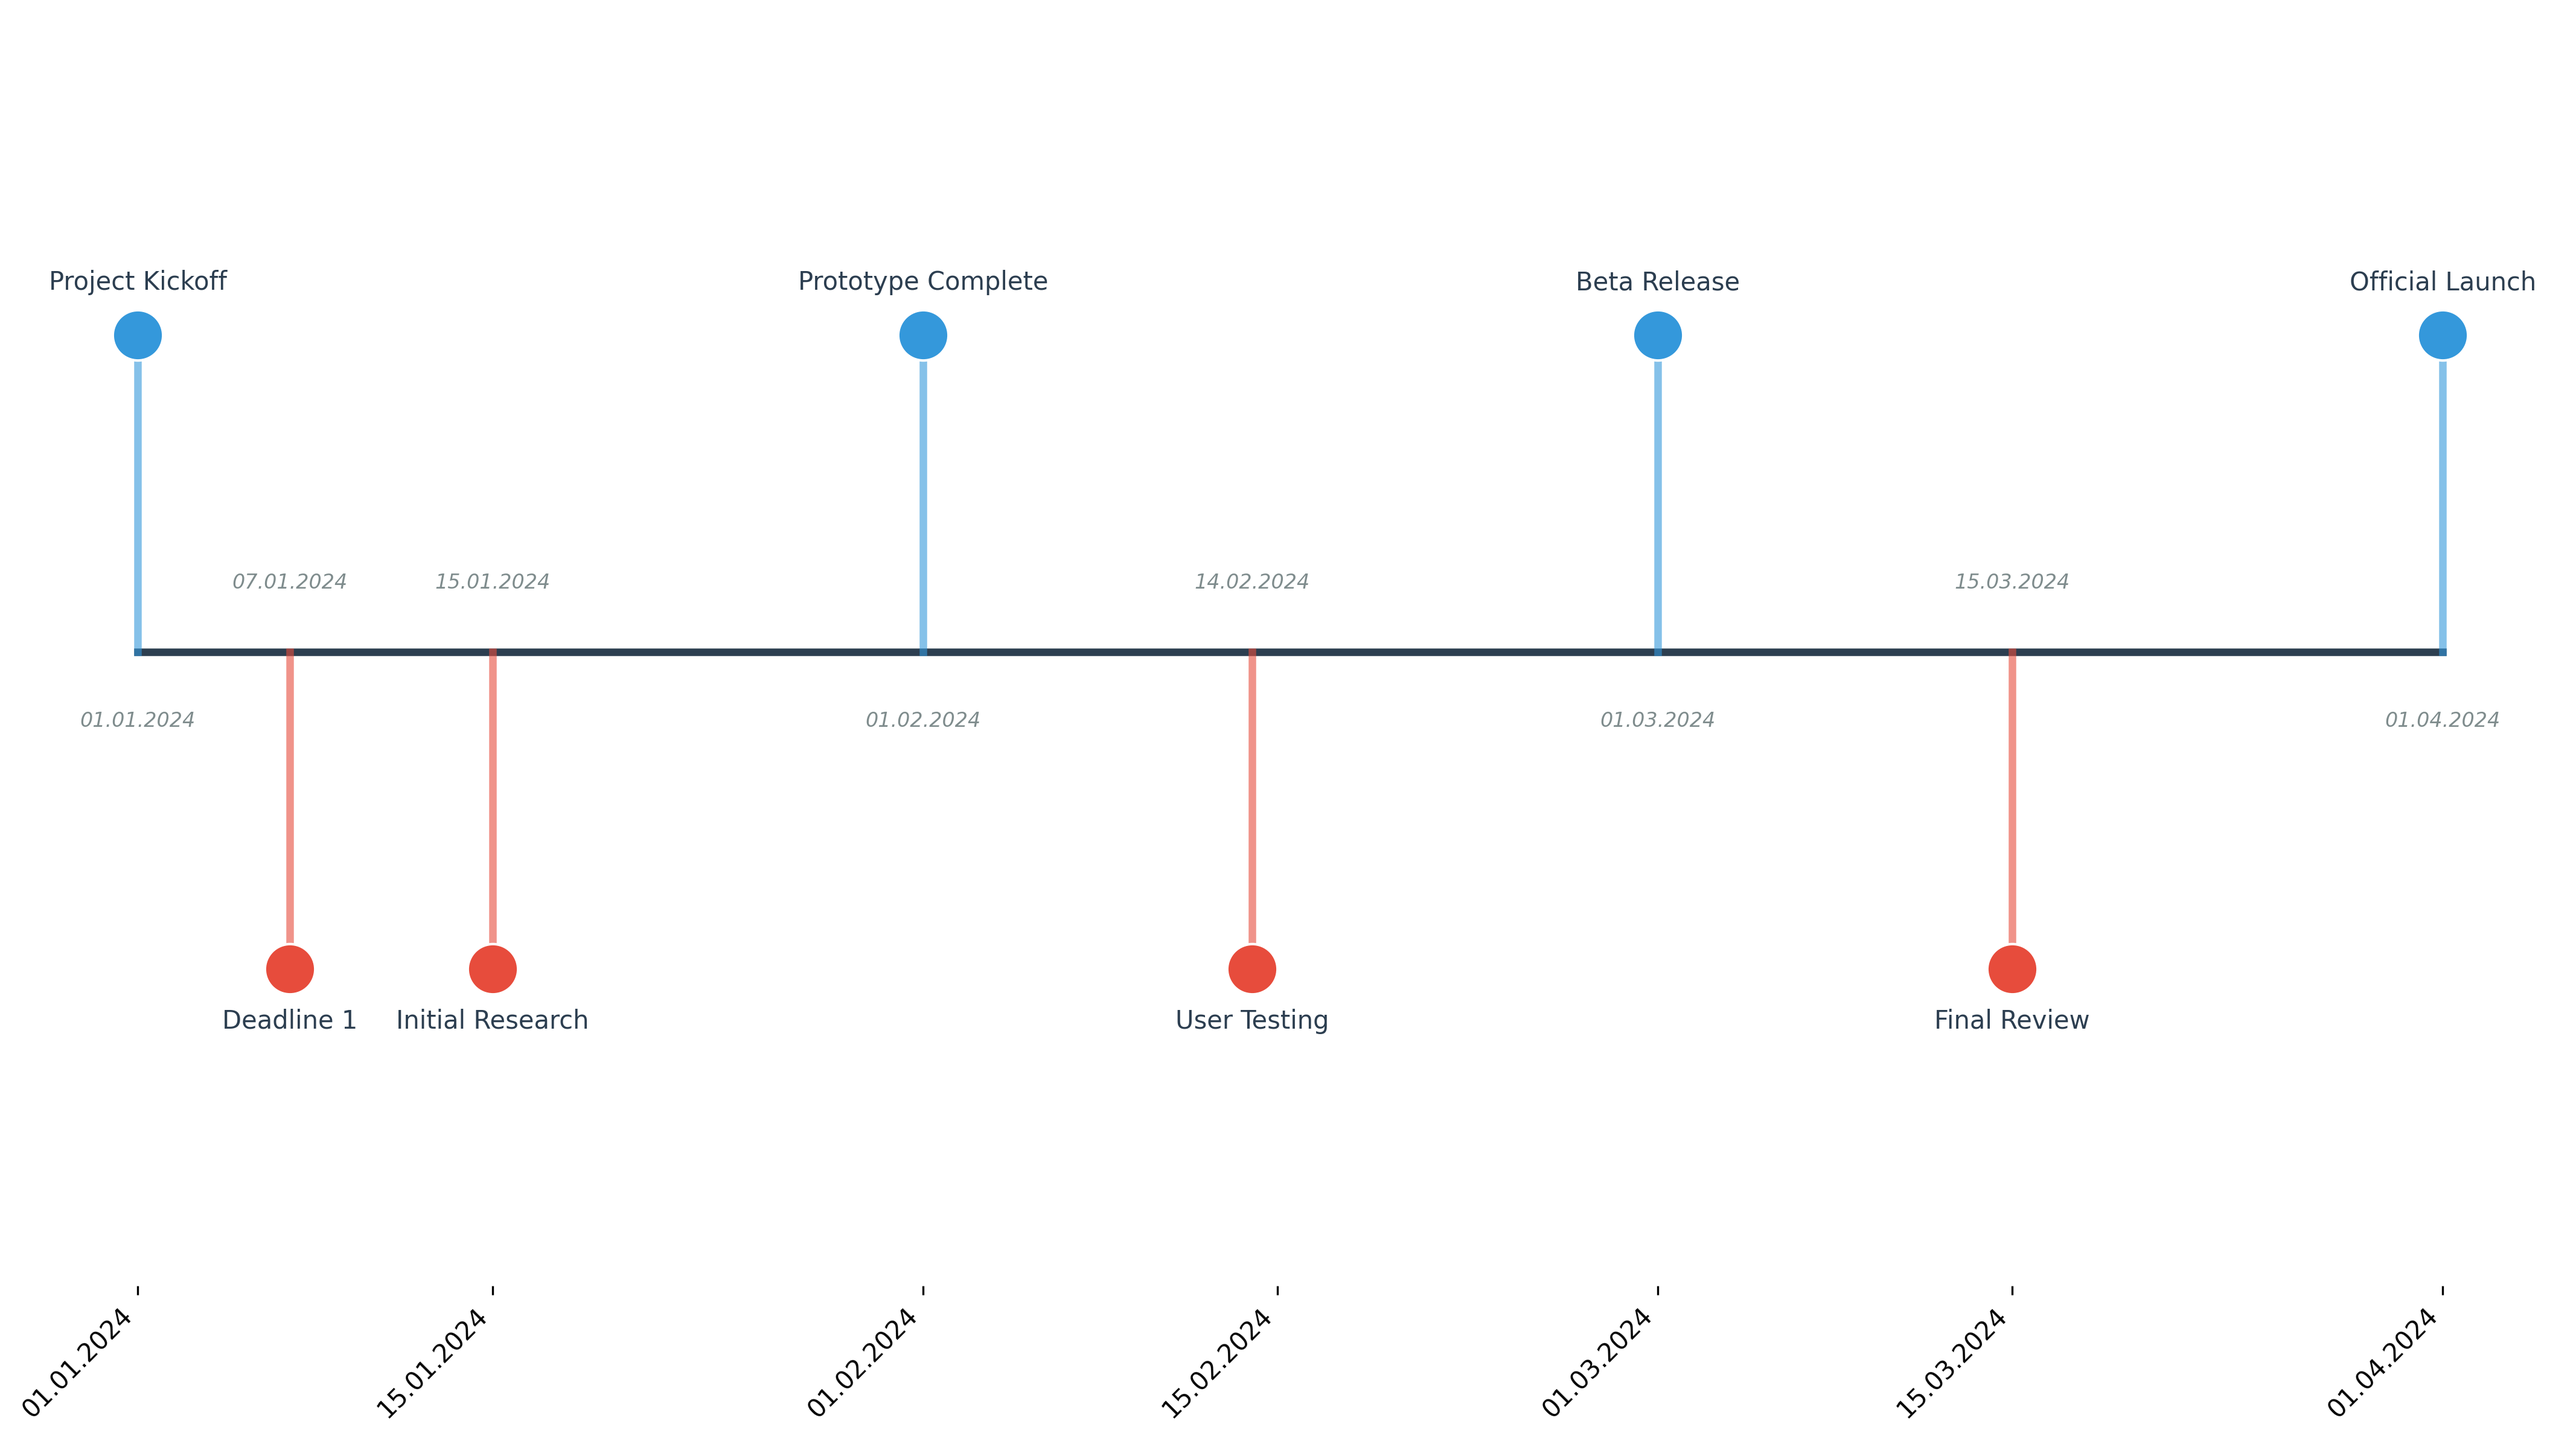
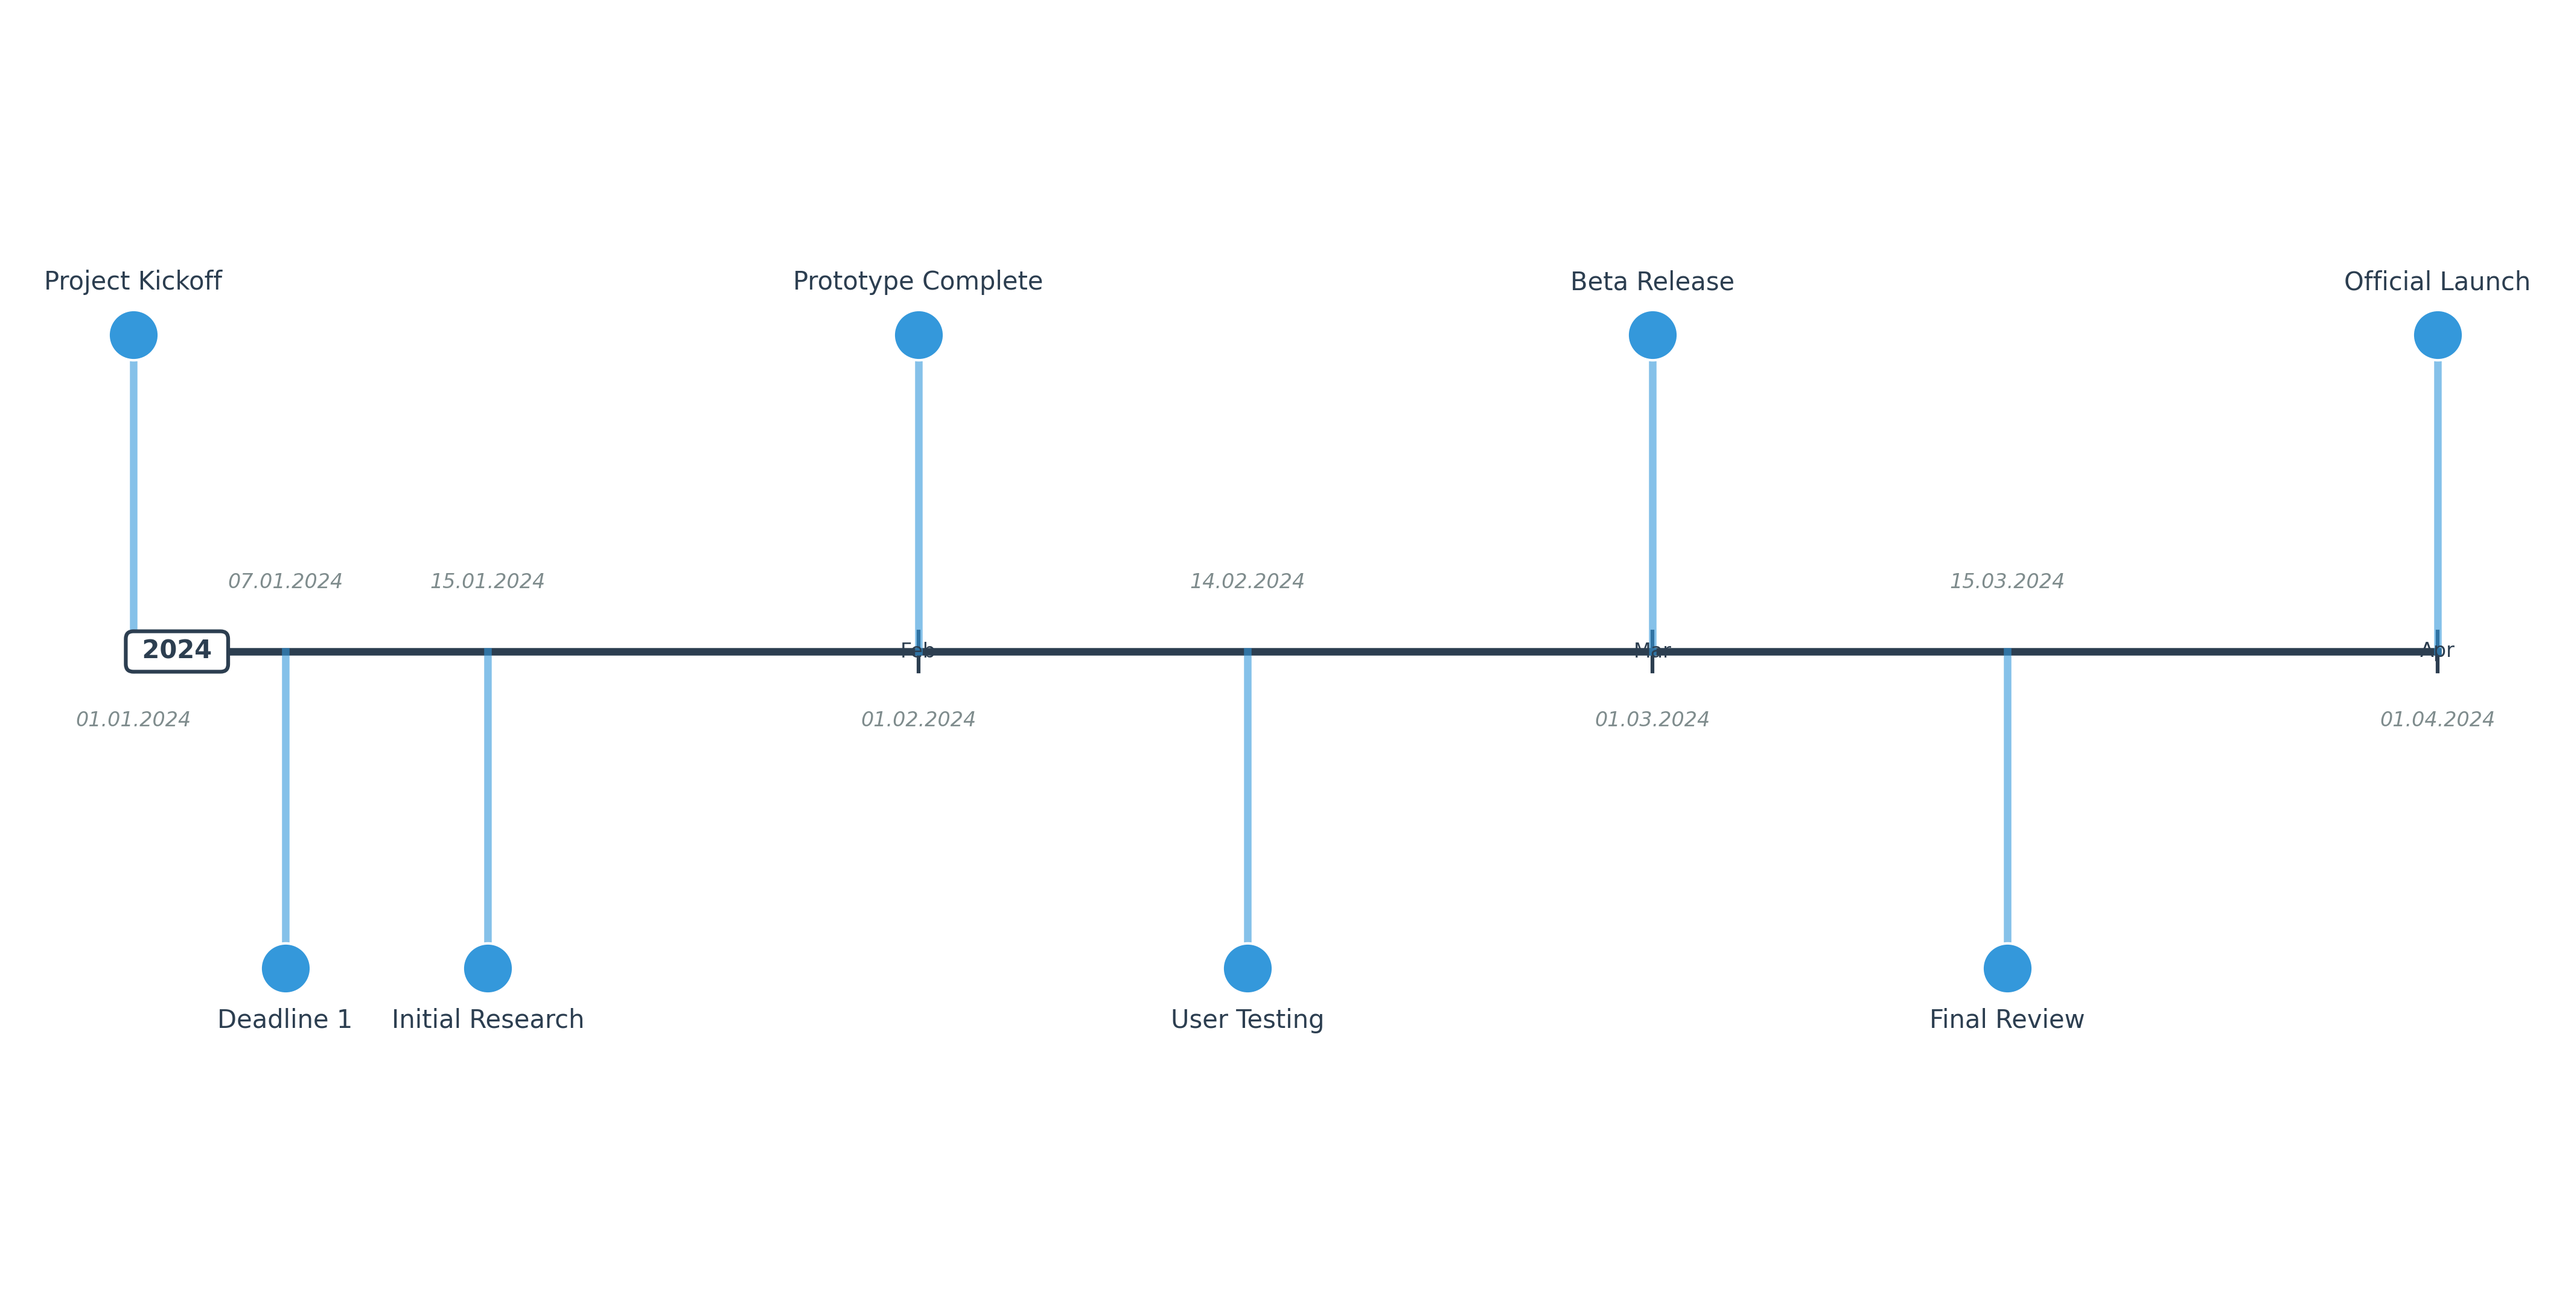
Almost working code

diff --git a/timeline_generator.py b/timeline_generator.py
@@ -7,6 +7,7 @@ Exports as PNG with customizable styling options
 import sys
 import json
 from datetime import datetime
+from dateutil.relativedelta import relativedelta
 from pathlib import Path
 
 import pandas as pd
@@ -116,6 +117,52 @@ def create_timeline(df, config, output_path):
             linewidth=visual['timeline_line_width'],
             zorder=1)
 
+    # Add month names and year labels on the timeline
+    # Generate month boundaries from min_date to max_date
+    current_date = datetime(min_date.year, min_date.month, 1)
+    last_year = None
+
+    while current_date <= max_date:
+        month_start_num = mdates.date2num(current_date)
+
+        # Check if we're within the visible range
+        if month_start_num >= min_date_num and month_start_num <= max_date_num:
+            # Add small tick mark on timeline
+            ax.plot([month_start_num, month_start_num], [-0.05, 0.05],
+                   color=colors['timeline_line'],
+                   linewidth=visual['timeline_line_width'] * 0.5,
+                   zorder=1)
+
+            # Check if this is a new year
+            if last_year is None or current_date.year != last_year:
+                # Add year label on the timeline
+                ax.text(month_start_num, 0, f' {current_date.year} ',
+                       ha='left',
+                       va='center',
+                       fontsize=fonts['label_size'],
+                       fontfamily=fonts['family'],
+                       color=colors['timeline_line'],
+                       fontweight='bold',
+                       bbox=dict(boxstyle='round,pad=0.3',
+                                facecolor=colors['background'],
+                                edgecolor=colors['timeline_line'],
+                                linewidth=1.5),
+                       zorder=5)
+                last_year = current_date.year
+            else:
+                # Add month name on the timeline
+                month_name = current_date.strftime('%b')  # Abbreviated month name
+                ax.text(month_start_num, 0, month_name,
+                       ha='center',
+                       va='center',
+                       fontsize=fonts['date_size'],
+                       fontfamily=fonts['family'],
+                       color=colors['timeline_line'],
+                       zorder=5)
+
+        # Move to next month
+        current_date = current_date + relativedelta(months=1)
+
     # Plot each event
     for idx, row in df.iterrows():
         date = row['parsed_date']
@@ -177,12 +224,8 @@ def create_timeline(df, config, output_path):
     ax.set_ylim(-visual['vertical_spacing'] - 0.8,
                 visual['vertical_spacing'] + 0.8)
 
-    # Format x-axis to show dates
-    ax.xaxis.set_major_formatter(mdates.DateFormatter(visual['date_format_display']))
-    ax.xaxis.set_major_locator(mdates.AutoDateLocator())
-    plt.setp(ax.xaxis.get_majorticklabels(), rotation=45, ha='right')
-
-    # Remove y-axis
+    # Hide all axes (month/year labels are on the timeline itself)
+    ax.xaxis.set_visible(False)
     ax.yaxis.set_visible(False)
     ax.spines['left'].set_visible(False)
     ax.spines['right'].set_visible(False)
